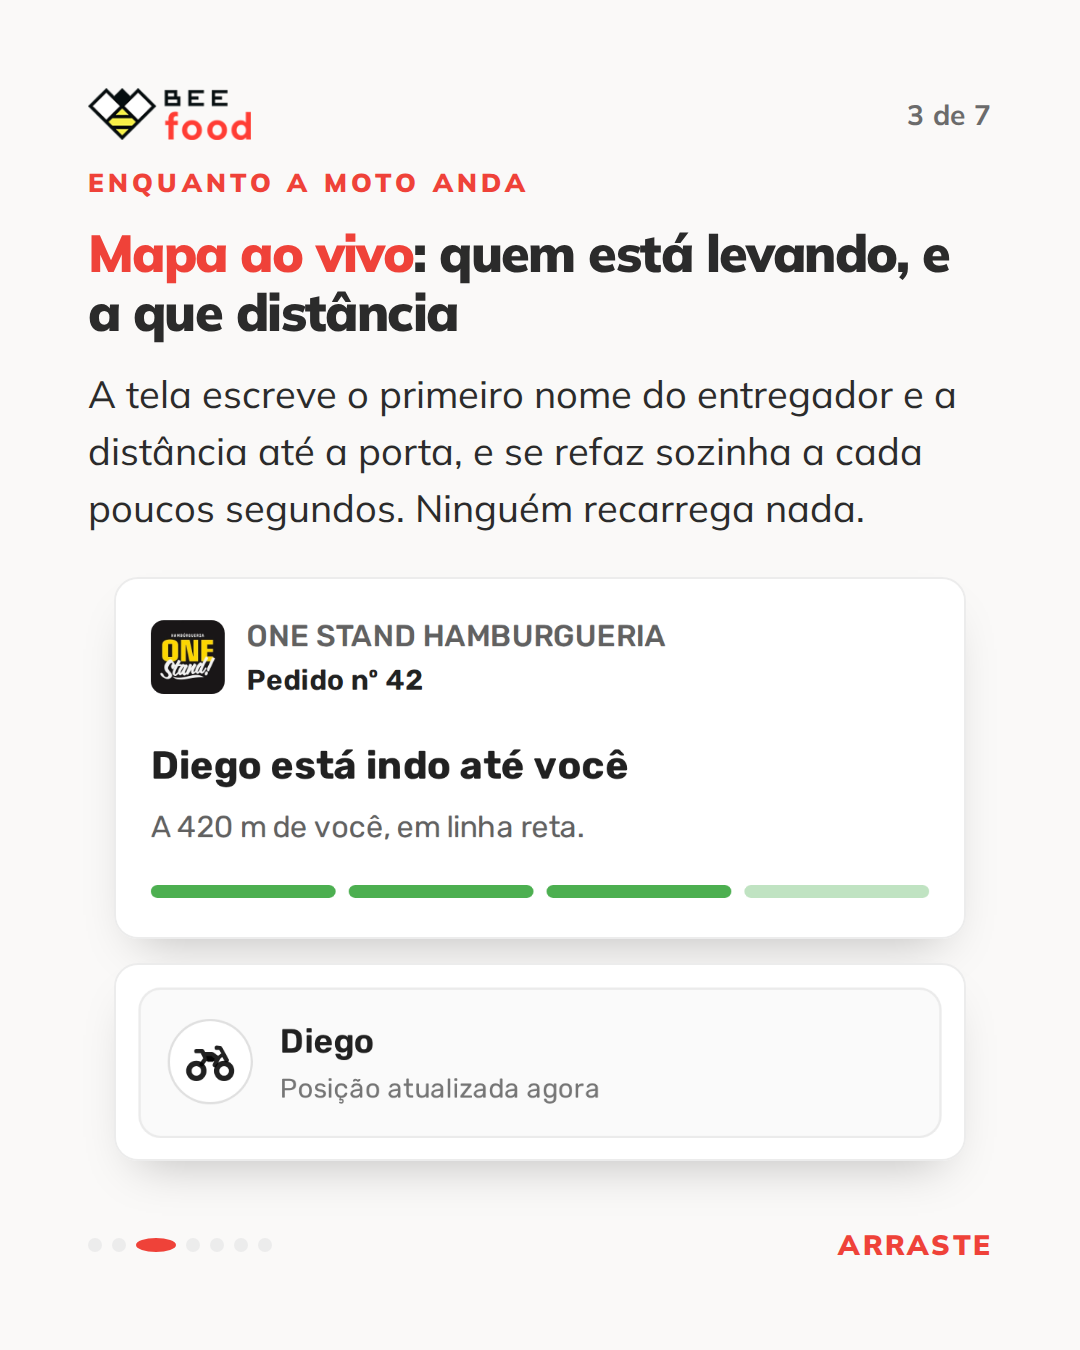
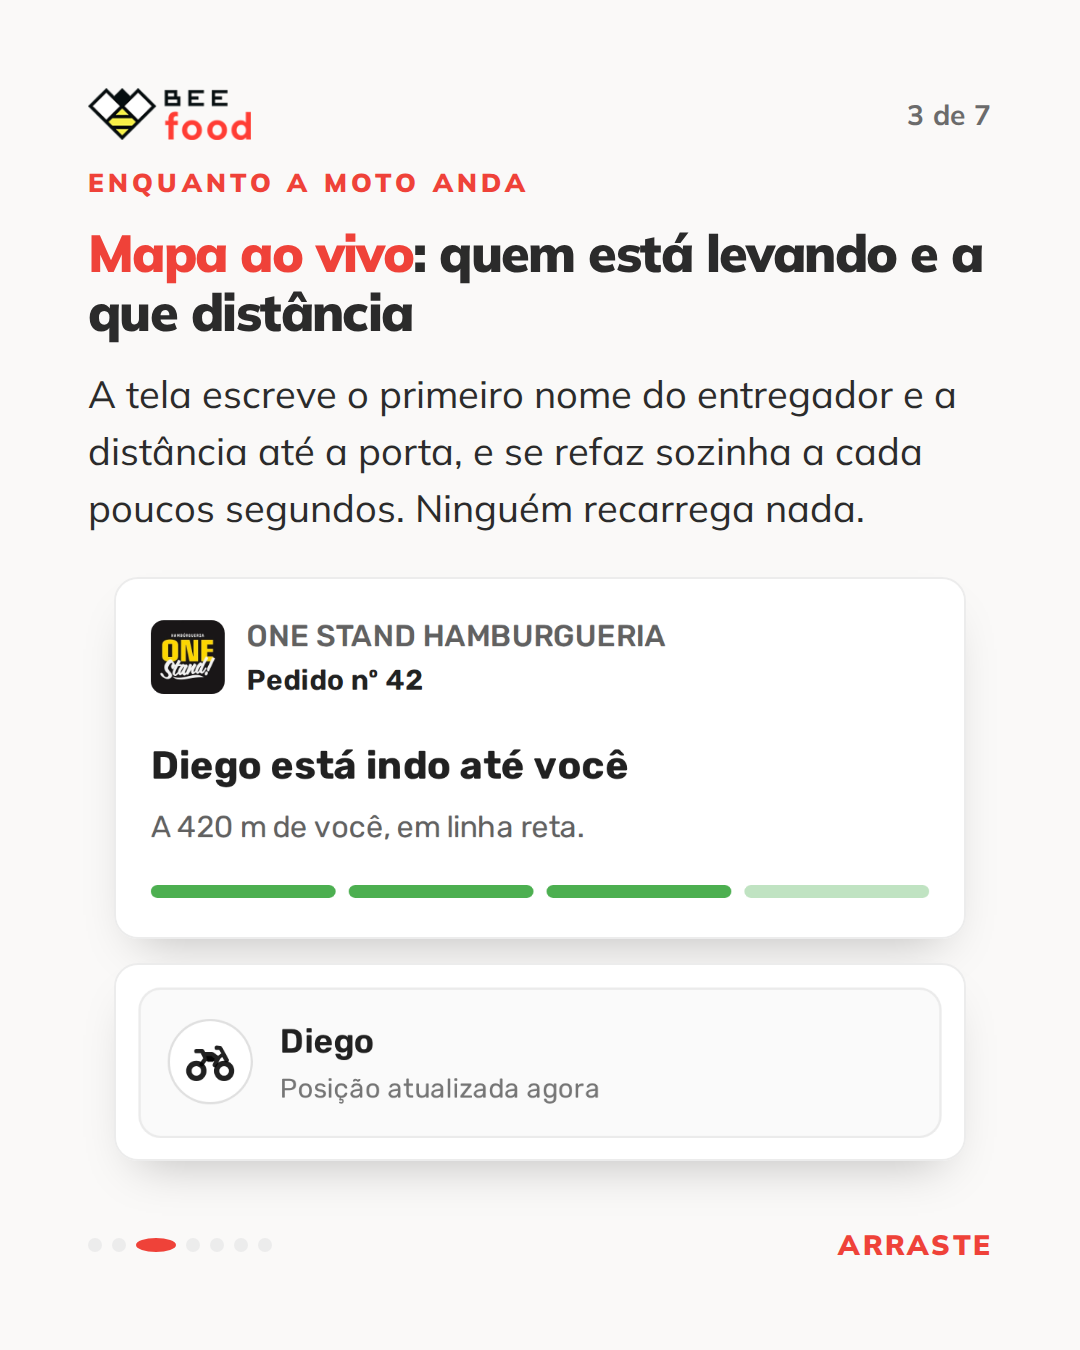
carrossel 11: revisao dos slides, e as duas frases que vieram do manual
O conferir-texto pegou nove sequencias de seis palavras, todas do manual do
rastreio. Duas estavam em slide — a linha da fila no 4 e o primeiro passo do
CTA — e foram reescritas. As outras sete estavam na legenda e nos textos
alternativos.

Tambem da revisao: o subtitulo da capa passou a caber em uma linha (o celular
cobria a segunda), e o titulo do slide 2 desceu para titulo--pequeno, o que
devolveu 144 px de largura para a conversa de WhatsApp.

Changed region(s): [[0.0917, 0.2178, 0.4278, 0.2489], [0.825, 0.1556, 0.9167, 0.2178]]

diff --git a/carrosseis/11-rastreio-da-entrega/slides/03-mapa-ao-vivo.html b/carrosseis/11-rastreio-da-entrega/slides/03-mapa-ao-vivo.html
@@ -23,7 +23,7 @@
   <div class="pilha g24" style="margin-top: 26px; max-width: 900px">
     <span class="chapeu">Enquanto a moto anda</span>
     <h2 class="titulo titulo--pequeno">
-      <span class="destaque">Mapa ao vivo</span>: quem está levando,
+      <span class="destaque">Mapa ao vivo</span>: quem está levando
       e a que distância
     </h2>
     <p class="corpo">

diff --git a/carrosseis/11-rastreio-da-entrega/slides/04-barra-de-etapas.html b/carrosseis/11-rastreio-da-entrega/slides/04-barra-de-etapas.html
@@ -26,7 +26,7 @@
       sem ninguém perguntar
     </h2>
     <p class="corpo">
-      São quatro etapas, e a frase embaixo muda junto com elas. Havendo outra
+      São quatro etapas, e a frase embaixo muda junto com elas. Se houver outra
       entrega na frente, quem espera lê isso na própria tela.
     </p>
   </div>

diff --git a/carrosseis/11-rastreio-da-entrega/roteiro.md b/carrosseis/11-rastreio-da-entrega/roteiro.md
@@ -93,15 +93,19 @@ o que configurar. Todas as imagens são resultado.
 
 ## Slide a slide
 
-| # | Tipo | Ideia única | Imagem |
+| # | Arquivo | Título | Imagem |
 |---|---|---|---|
-| 1 | Capa | A mensagem de sempre agora abre um mapa ao vivo no celular de quem pediu | `cel-a-caminho.png` num `.celular` sangrando pela base — **captura** |
-| 2 | Explica o recurso | O link entra sozinho no aviso que a loja já mandava | `zap-rastreio.png` — **desenho** da conversa, com o bloco *Acompanhe a entrega* |
-| 3 | O mapa ao vivo | O nome de quem está levando e a distância até a porta | `recorte-a-caminho.png` + `recorte-cartao.png` — **captura**, dois recortes |
-| 4 | A barra de etapas | Onde o pedido está em cada momento, sem ninguém perguntar | `recorte-preparo.png`, `recorte-fila.png`, `recorte-entregue.png` — **captura**, três recortes |
-| 5 | O pino da loja | A logo do restaurante no meio do mapa, e nenhuma marca nossa | `recorte-mapa.png` — **captura**, recorte fechado |
-| 6 | No computador | A mesma página e o mesmo link, em duas colunas | `pc-a-caminho.png` num `.notebook` — **captura** |
-| 7 | CTA | Já está no ar, e não há nada para ligar: despache a próxima rota | `cel-a-caminho.png` no mesmo `.celular` da capa — a peça abre e fecha na mesma cena |
+| 1 | `01-capa.html` | A mesma mensagem, agora com **rastreio da entrega** | `cel-a-caminho.png` num `.celular` sangrando pela base — **captura** |
+| 2 | `02-o-link-vai-junto.html` | O link entra **sozinho** na mensagem que a sua loja já manda | `zap-rastreio.png` — **desenho** da conversa, com `.realce` no bloco que o sistema anexa |
+| 3 | `03-mapa-ao-vivo.html` | **Mapa ao vivo**: quem está levando e a que distância | `recorte-cabecalho.png` + `recorte-cartao.png` — **captura**, dois recortes |
+| 4 | `04-barra-de-etapas.html` | **Barra de etapas**: onde o pedido está, sem ninguém perguntar | `recorte-preparo.png`, `recorte-fila.png`, `recorte-entregue.png` — **captura**, três recortes |
+| 5 | `05-pino-da-loja.html` | **Pino da loja**: a sua logo no meio do mapa | `recorte-mapa.png` — **captura**, recorte fechado |
+| 6 | `06-no-computador.html` | **Uma página só**: o mesmo link abre em qualquer tela | `pc-a-caminho.png` num `.notebook` — **captura** |
+| 7 | `07-cta.html` | Despache a próxima rota **hoje** | `cel-a-caminho.png` no mesmo `.celular` da capa — a peça abre e fecha na mesma cena |
+
+Lidos em fila, os sete títulos montam a lista do que o módulo passou a fazer, e
+nenhum deles tem pronome. O slide 2 é a exceção estrutural da regra do nome: ele
+explica o recurso que a capa acabou de nomear, então o título ali é a explicação.
 
 ## Decisões de arte
 
@@ -222,6 +226,26 @@ dos três pinos para que a logo no pino tenha tamanho de leitura.
 Todos os cortes são **medidos no arquivo** com Pillow, não estimados na
 miniatura. É a regra herdada da #7 e da #10.
 
+### A captura do computador foi refeita mais estreita
+
+A primeira saiu em 1440 × 900. A página põe as informações numa coluna fixa e
+dá o resto ao mapa, então em 1440 a coluna fica com 19% da tela — e reduzida
+para os 936 px do `.notebook`, *Diego está indo até você* chegava ao slide com
+10 px de letra. É o defeito que a #9 e a #8 já tinham documentado: **a largura
+do viewport é decisão de arte**, e a conta é largura do recorte ÷ largura no
+slide.
+
+Refeita em **1152 × 720** — que é 16/10, a proporção da tela do `.notebook` —,
+a coluna sobe para 29% e o nome do entregador continua legível depois da
+redução. Nada mais mudou: é a mesma cena, a mesma resposta interceptada.
+
+### O `.realce` do slide 2, e por que ele não está no arquivo
+
+A captura do manual traz o bloco *Acompanhe a entrega* **marcado em amarelo**,
+e copiar isso seria assar a anotação dentro da imagem — linguagem de manual, que
+a skill proíbe na arte. O desenho saiu limpo, e quem dirige o olhar é o slide,
+com o `.realce` posicionado em porcentagem sobre a figura.
+
 ### O celular da capa e o do CTA são o mesmo
 
 A skill aprova **uma** repetição de prova dentro de uma peça, e é esta: o CTA
@@ -251,3 +275,34 @@ E a capa não afirma nada sobre o leitor. A primeira versão do título era
 *"Antes, o telefone. Agora, o rastreio da entrega"* — boa frase, e ela afirma
 que os clientes dele ligam. Quem poderia desmentir? Ele. O antes virou o da
 **mensagem**, que é do produto.
+
+## O que a revisão mudou
+
+**A capa perdeu uma linha de subtítulo.** Na primeira renderização o subtítulo
+quebrou em duas e o celular, em `top: 585px`, passou por cima da segunda — o
+`z-index` do texto salvou a leitura e não salvou a arte. *"Quem pediu abre o
+mapa ao vivo pelo WhatsApp"* virou *"No WhatsApp, quem pediu abre o mapa ao
+vivo"*, que cabe em uma linha e diz a mesma coisa.
+
+**O título do slide 2 desceu de tamanho.** Em `titulo--medio` ele ocupava três
+linhas e empurrava a conversa de WhatsApp para uma largura em que o link não se
+lia; em `titulo--pequeno` são duas linhas, e a figura subiu de 760 para 904 px,
+que é a largura útil do slide.
+
+**O `conferir-texto.py` pegou nove frases, e as nove eram do manual.** Duas em
+slide (*"quando o entregador tem outra parada antes, a tela diz isso"* e *"o
+link vai junto do aviso"*) e sete na legenda e nos textos alternativos. Vale
+registrar o padrão: as frases que ele pega são as **mais bem escritas** do
+rascunho, e é por isso que elas atravessam duas leituras sem levantar suspeita.
+
+Uma decisão dentro dessa rodada: os textos alternativos descrevem uma tela, e
+descrever uma tela é citar o que ela escreve. Onde a frase da tela é curta ela
+ficou entre aspas (*"Pedido entregue às 20:12"*); onde ela é longa o suficiente
+para o conferidor acusar, o texto alternativo **descreve em vez de citar** (a
+linha da fila virou *"a linha que põe quem espera como a segunda de três
+paradas da viagem"*). Acessibilidade não perde nada, e a peça não carrega
+parágrafo do manual.
+
+**Os 36 avisos de repetição entre carrosséis são um só.** Todos são a linha de
+fechamento da série — *tudo que entra de novo está em beefood.app/novidades* —
+mais a pílula de caminho. É convenção, e convenção repete de propósito.
